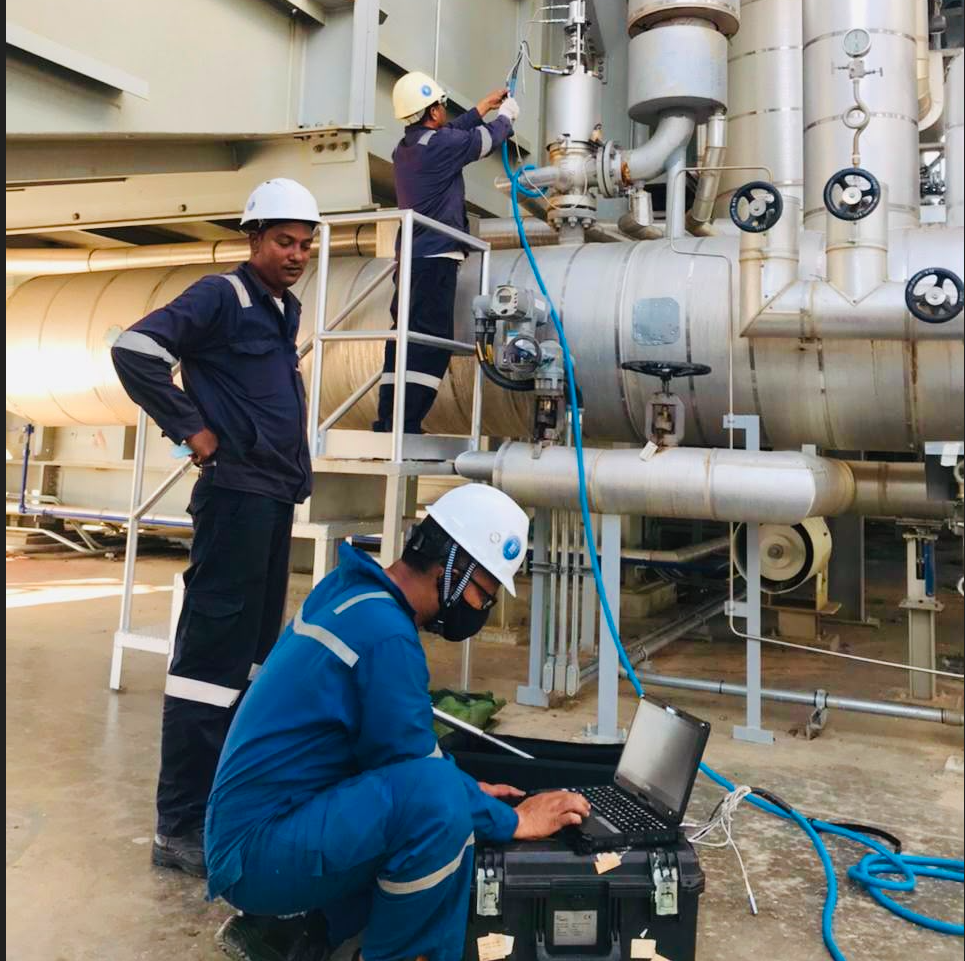
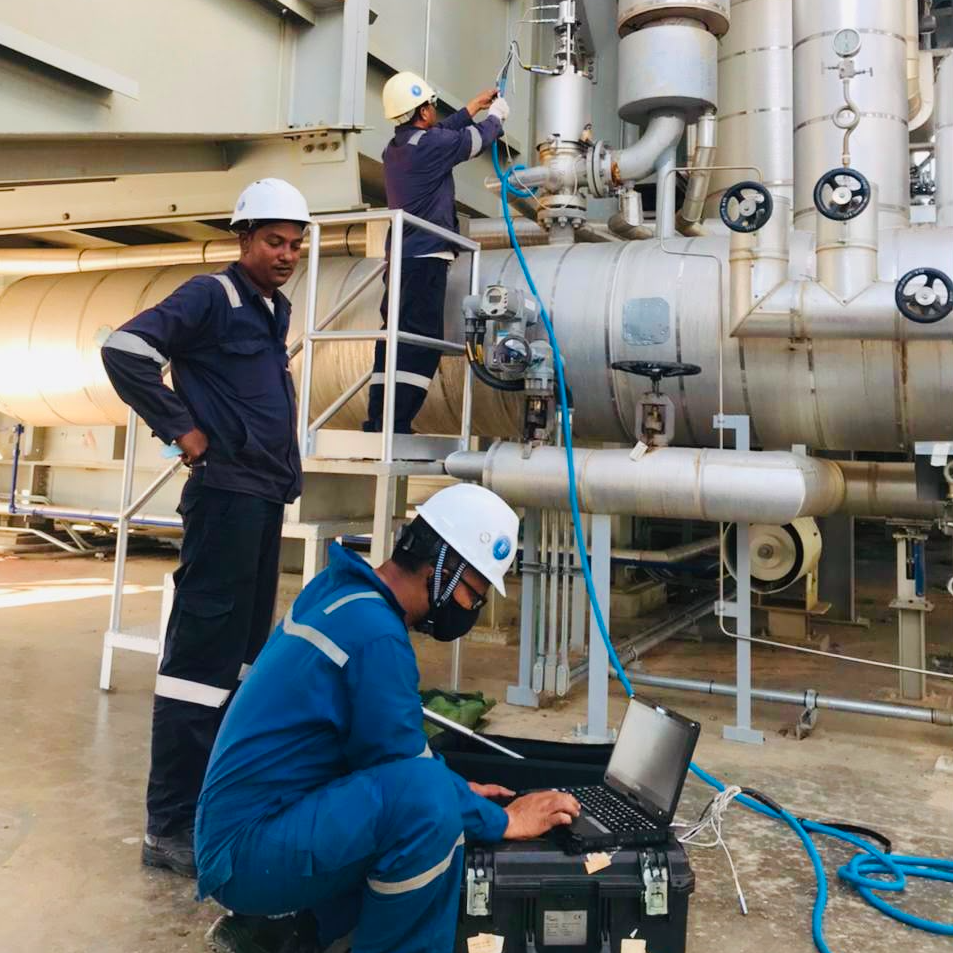
Update EVT photo, add Malaysia office placeholder, and compact header navbar.

diff --git a/src/data/offices.ts b/src/data/offices.ts
@@ -41,7 +41,7 @@ export const offices: Office[] = [
     id: 'malaysia',
     country: 'Malaysia',
     entity: 'Global Alliance Engineering Sdn Bhd',
-    enabled: false,
+    enabled: true,
   },
   {
     id: 'thailand',
@@ -73,7 +73,7 @@ export const offices: Office[] = [
   },
 ];
 
-/** Offices shown on the website (MY & TH hidden until contact details are ready) */
+/** Offices shown on the website (TH hidden until contact details are ready) */
 export const activeOffices = offices.filter((office) => office.enabled !== false);
 
 export const primaryOffice = offices[0];